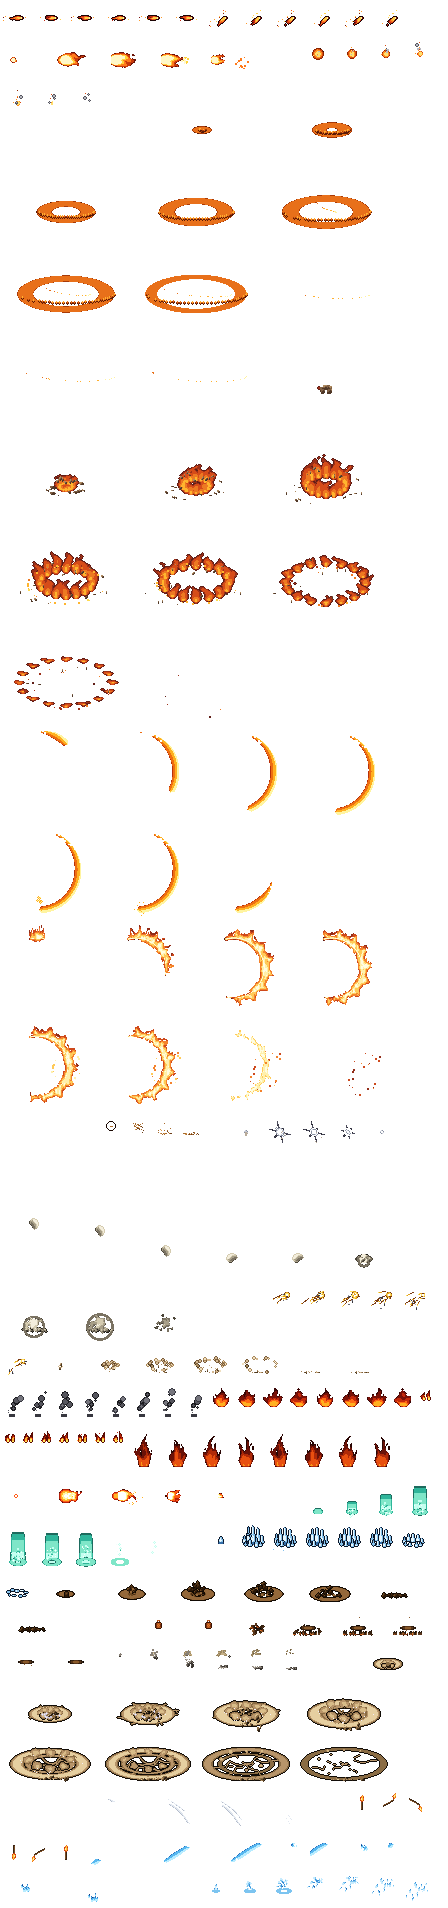
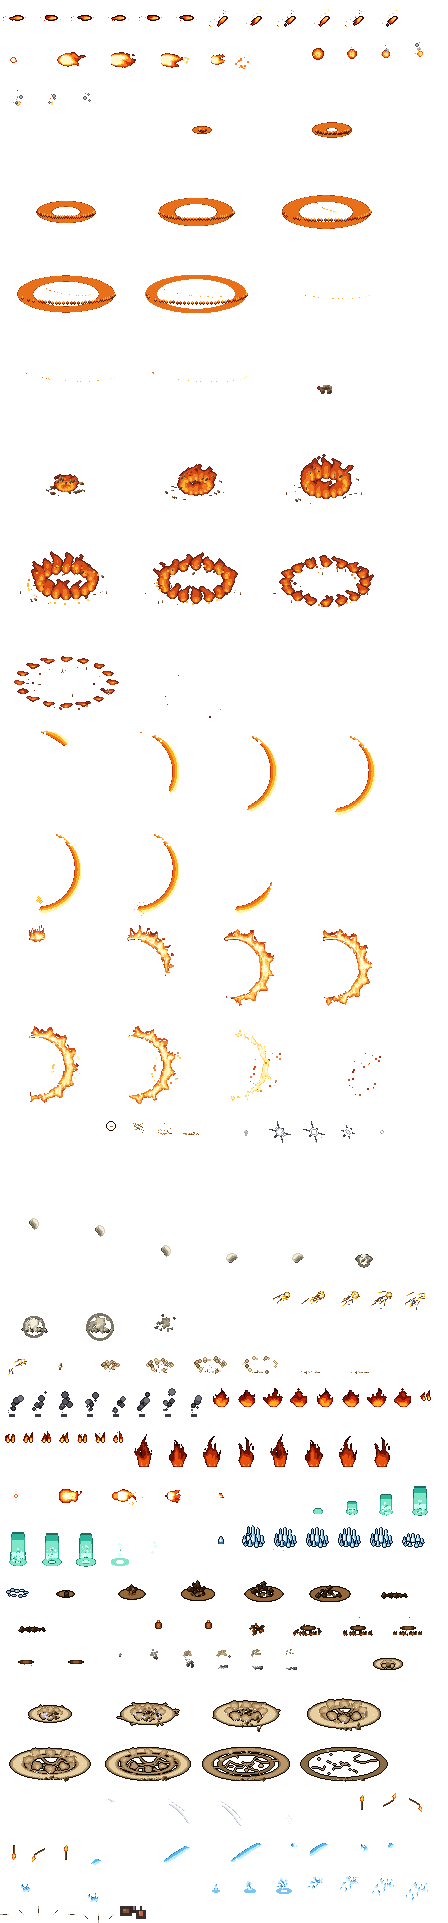
Pack the top-down projectiles in flight into the VFX atlas
The crossbow bolt in eight headings, the thrown rock, the sling stone and the
oil flask, drawn procedurally at one art px a world px as the prototype draws
them; the bolt gets a dark shaft and a light head so it reads on sand.

Claude-Session: https://claude.ai/code/session_01H8JDTPYztrZvUL5HBCK6eR

diff --git a/scripts/art/topdown/pack-vfx.ts b/scripts/art/topdown/pack-vfx.ts
@@ -688,6 +688,78 @@ function familyBytes(files: ReadonlyMap<string, Uint8Array | string>): number {
   return existingBytes + packedBytes;
 }
 
+/** `#rrggbb` as RGBA. */
+const rgb = (hex: string): [number, number, number, number] => [
+  parseInt(hex.slice(1, 3), 16),
+  parseInt(hex.slice(3, 5), 16),
+  parseInt(hex.slice(5, 7), 16),
+  255,
+];
+
+/** A cel `w` x `h` with the prototype's `fillRect` calls painted on it, in order. */
+function painted(
+  w: number,
+  h: number,
+  rects: readonly [string, number, number, number, number][],
+): Image {
+  const image = newImage(w, h);
+  for (const [hex, x0, y0, rw, rh] of rects)
+    for (let y = y0; y < y0 + rh; y++)
+      for (let x = x0; x < x0 + rw; x++) image.data.set(rgb(hex), (y * w + x) * 4);
+  return image;
+}
+
+/**
+ * The projectiles in flight (#588), drawn procedurally as the prototype draws them (`b3/fx.js` `drawBolts`), one art
+ * px a world px, with their point of flight at each cel's centre. `shot/bolt/<i>` is the crossbow bolt flying along
+ * heading `i` (0 east, clockwise in 45 degree steps): a 7 px line from its pale 2 px head at the centre, down a dark
+ * shaft that reads on sand, to grey fletching, rounded to whole pixels (#588 asks for the dark shaft and light head
+ * over the prototype's mid-brown, which faded into the quarry floor). `shot/rock` is the thrown rock, `shot/stone` the sling stone, `shot/jar` the
+ * oil flask; the torch flies on its own burning cels (`vfx13/torch`).
+ */
+export function shotCels(): Item[] {
+  const bolts = Array.from({ length: 8 }, (_, i) => {
+    const angle = (i * Math.PI) / 4;
+    const rects: [string, number, number, number, number][] = [];
+    for (let k = 6; k >= 0; k--)
+      rects.push([
+        k < 2 ? '#e8d8b0' : k < 6 ? '#3a2e2c' : '#aea89c',
+        6 - Math.round(Math.cos(angle) * k),
+        6 - Math.round(Math.sin(angle) * k),
+        1,
+        1,
+      ]);
+    return { name: `shot/bolt/${i}`, image: painted(13, 13, rects) };
+  });
+  return [
+    ...bolts,
+    {
+      name: 'shot/rock',
+      image: painted(8, 6, [
+        ['#3a2e2c', 0, 0, 8, 6],
+        ['#7d5434', 1, 1, 6, 4],
+        ['#a6713f', 1, 1, 3, 2],
+      ]),
+    },
+    {
+      name: 'shot/stone',
+      image: painted(4, 3, [
+        ['#322125', 0, 0, 4, 3],
+        ['#85807f', 1, 0, 2, 2],
+      ]),
+    },
+    {
+      name: 'shot/jar',
+      image: painted(6, 9, [
+        ['#3a2e2c', 2, 0, 2, 2],
+        ['#3a2e2c', 0, 2, 6, 7],
+        ['#c4643f', 1, 3, 4, 5],
+        ['#e09a6a', 1, 3, 1, 3],
+      ]),
+    },
+  ];
+}
+
 export async function packTopdownVfx(): Promise<Map<string, Uint8Array | string>> {
   const specs = new Set(Object.keys(VFX_RECIPES));
   const sources = sourceFiles();
@@ -709,6 +781,7 @@ export async function packTopdownVfx(): Promise<Map<string, Uint8Array | string>
     items.push(...parsed.items);
     effects[key] = parsed.recipe;
   }
+  items.push(...shotCels());
 
   let width = 256;
   let placed: ReturnType<typeof shelfPack>['placed'] | undefined;
